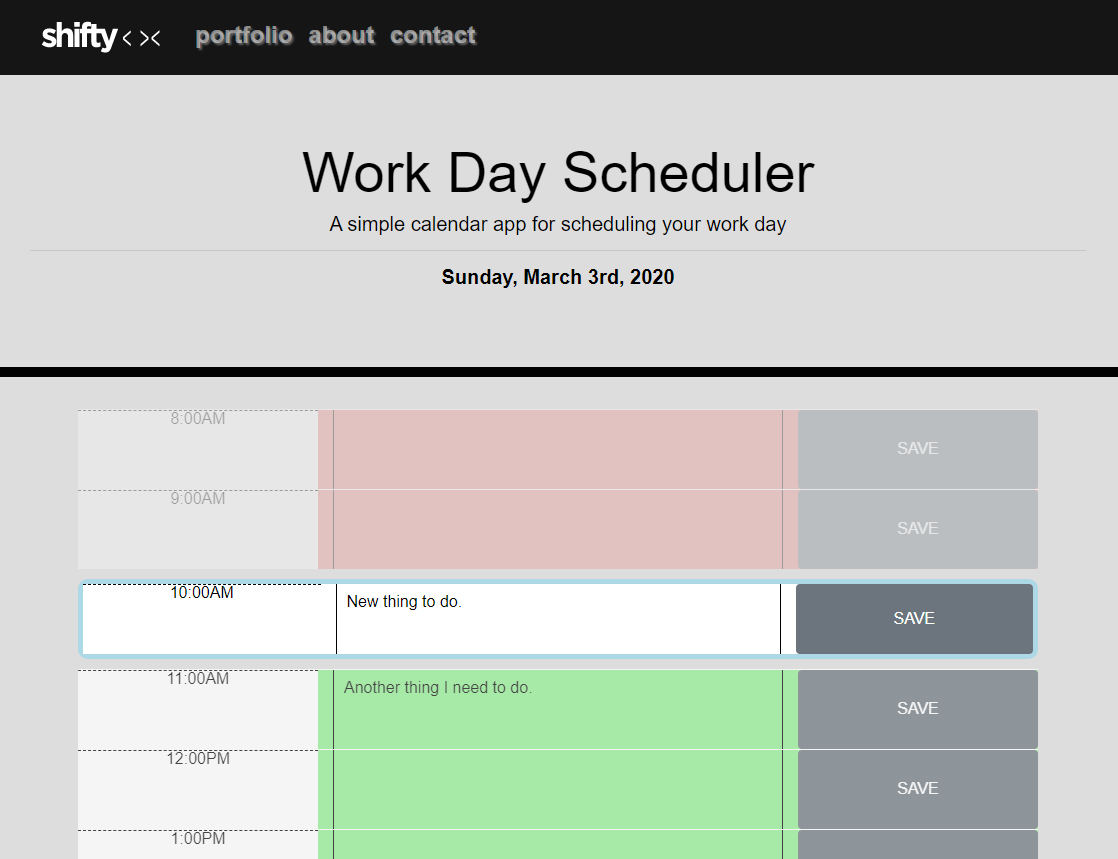
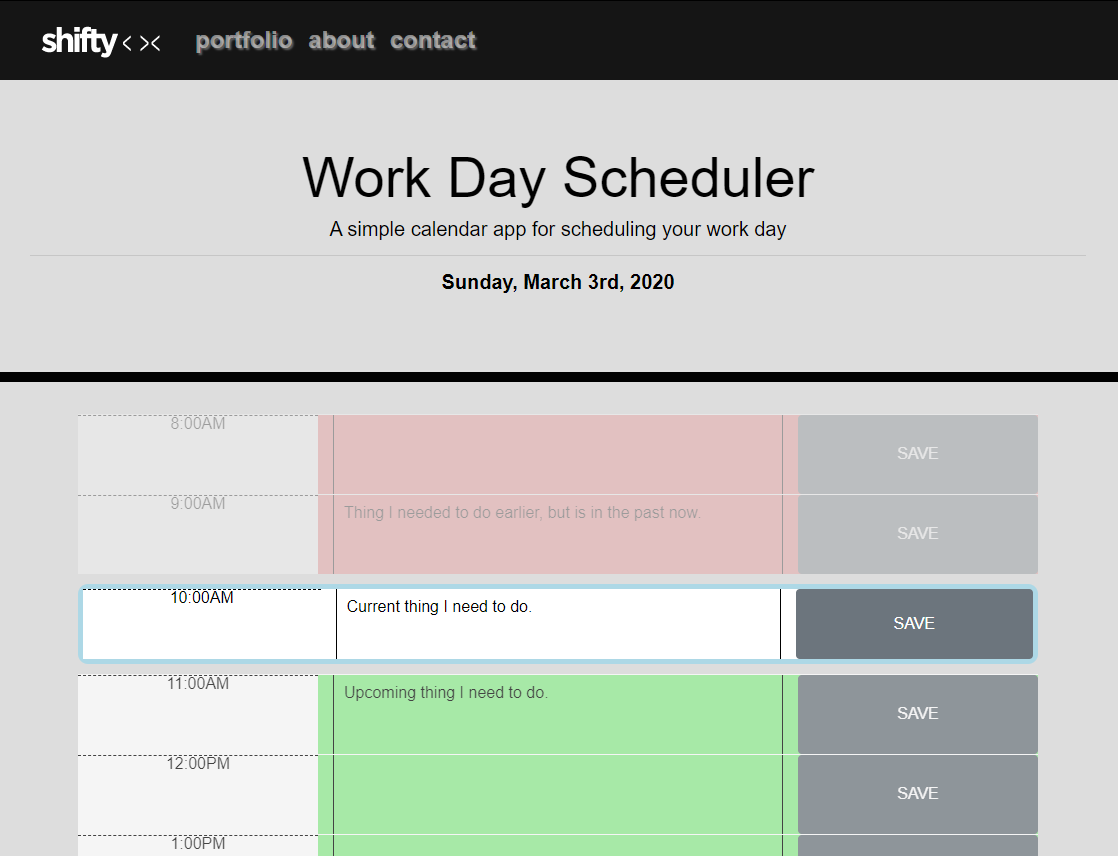
updating readme

diff --git a/5/README.md b/5/README.md
@@ -3,3 +3,8 @@
 ## Preview of finished app
 
 ![](./Assets/images/readme/finish-preview.png)
+
+1. Utilize moment.js for time formatting.
+2. Utilize Jquery to build out time blocks.
+3. Format time blocks based on past, present or future.
+4. Save & retrieve inputs via localstorage.
